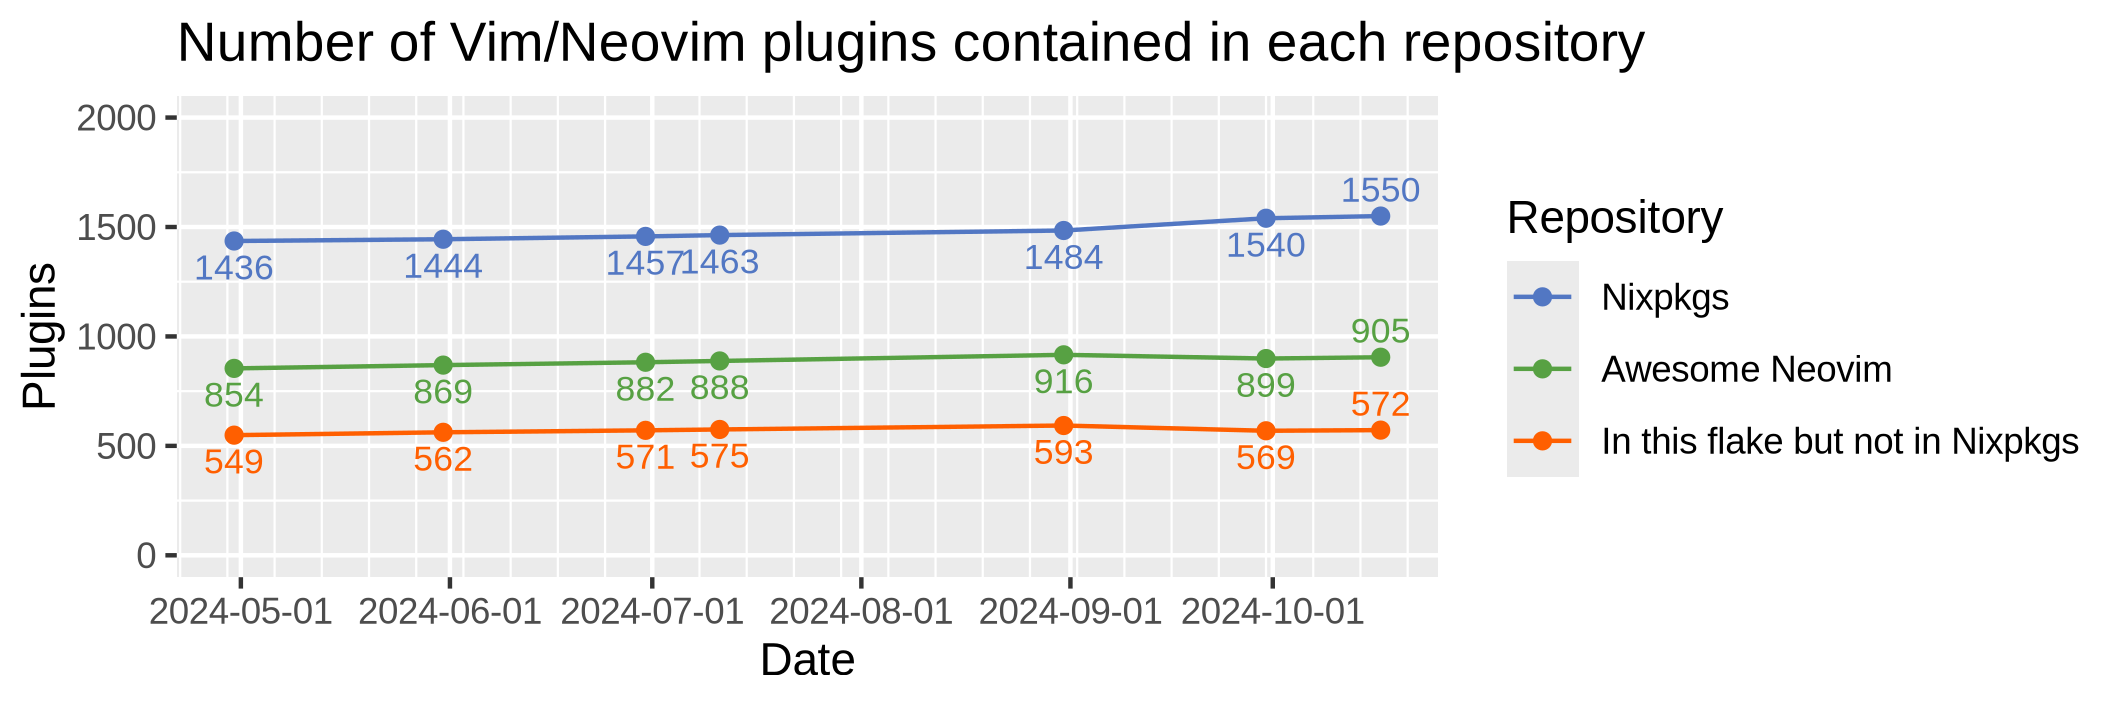
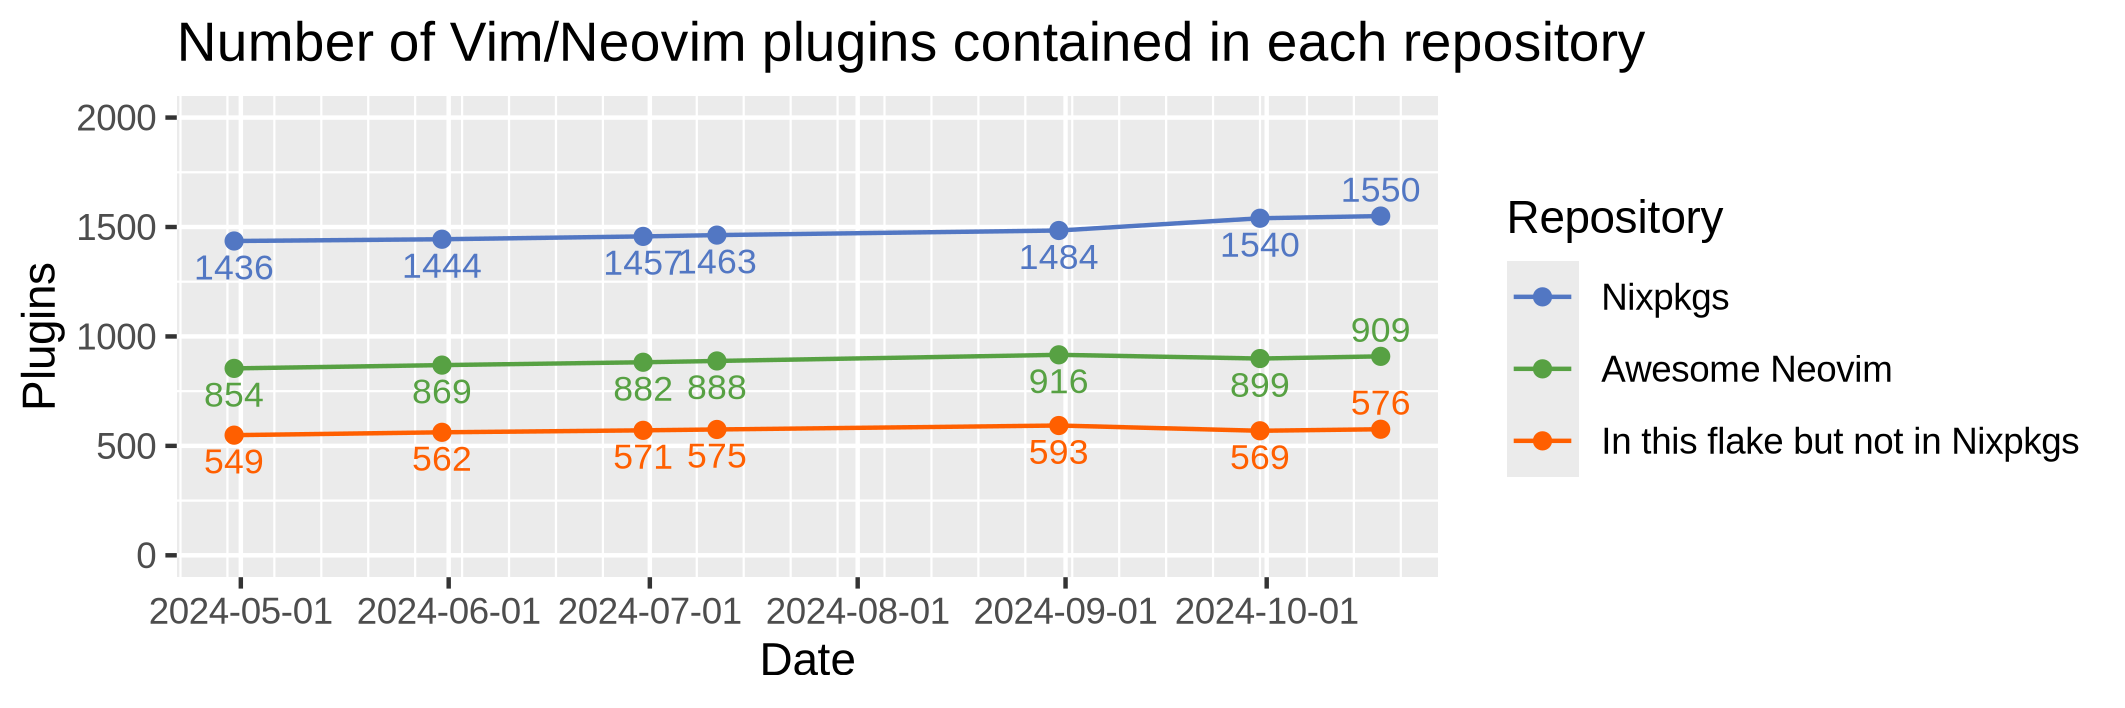
auto: update vim plugins

diff --git a/README.md b/README.md
@@ -8,7 +8,7 @@ Nix flake of Awesome Neovim plugins.
 
 [b1]: https://img.shields.io/github/actions/workflow/status/m15a/flake-awesome-neovim-plugins/check.yml?style=flat-square&logo=github&label=CI
 [b2]: https://github.com/m15a/flake-awesome-neovim-plugins/actions/workflows/check.yml
-[b3]: https://img.shields.io/badge/Awesome_Neovim_plugins-905-57A143?style=flat-square
+[b3]: https://img.shields.io/badge/Awesome_Neovim_plugins-909-57A143?style=flat-square
 [b4]: https://img.shields.io/endpoint?url=https://flakehub.com/f/m15a/flake-awesome-neovim-plugins/badge&style=flat-square
 [b5]: https://flakehub.com/flake/m15a/flake-awesome-neovim-plugins
 
